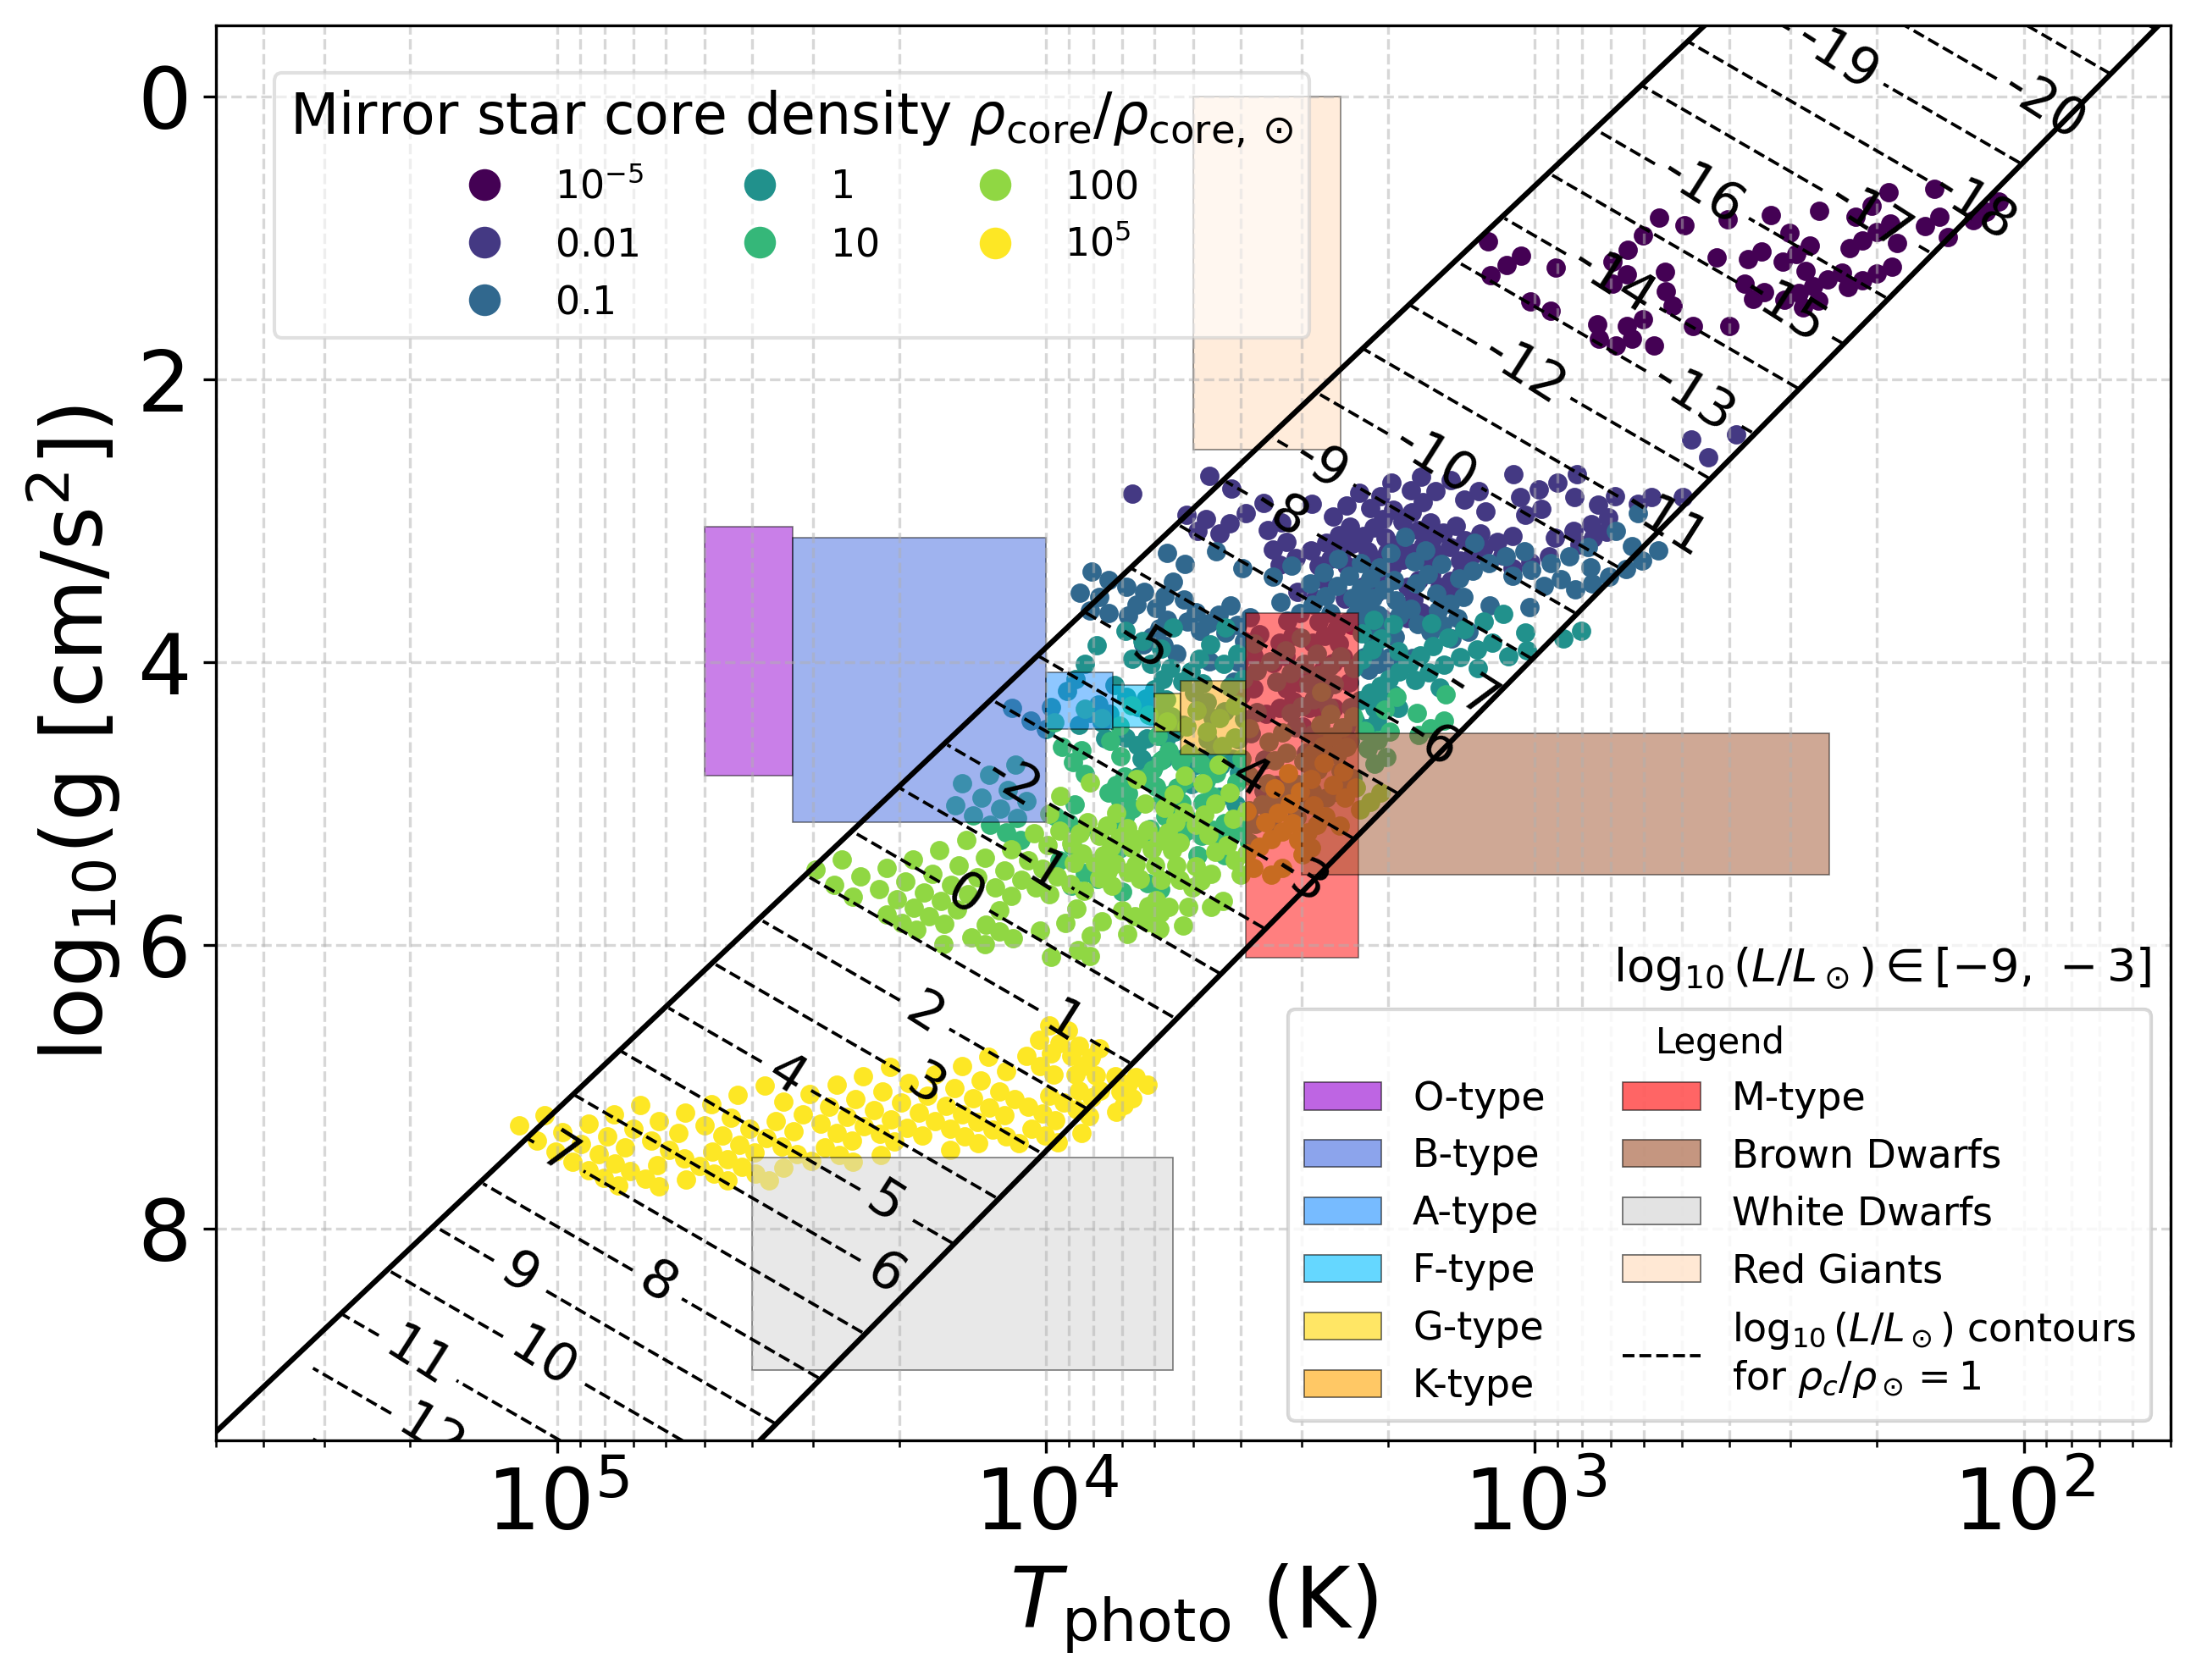
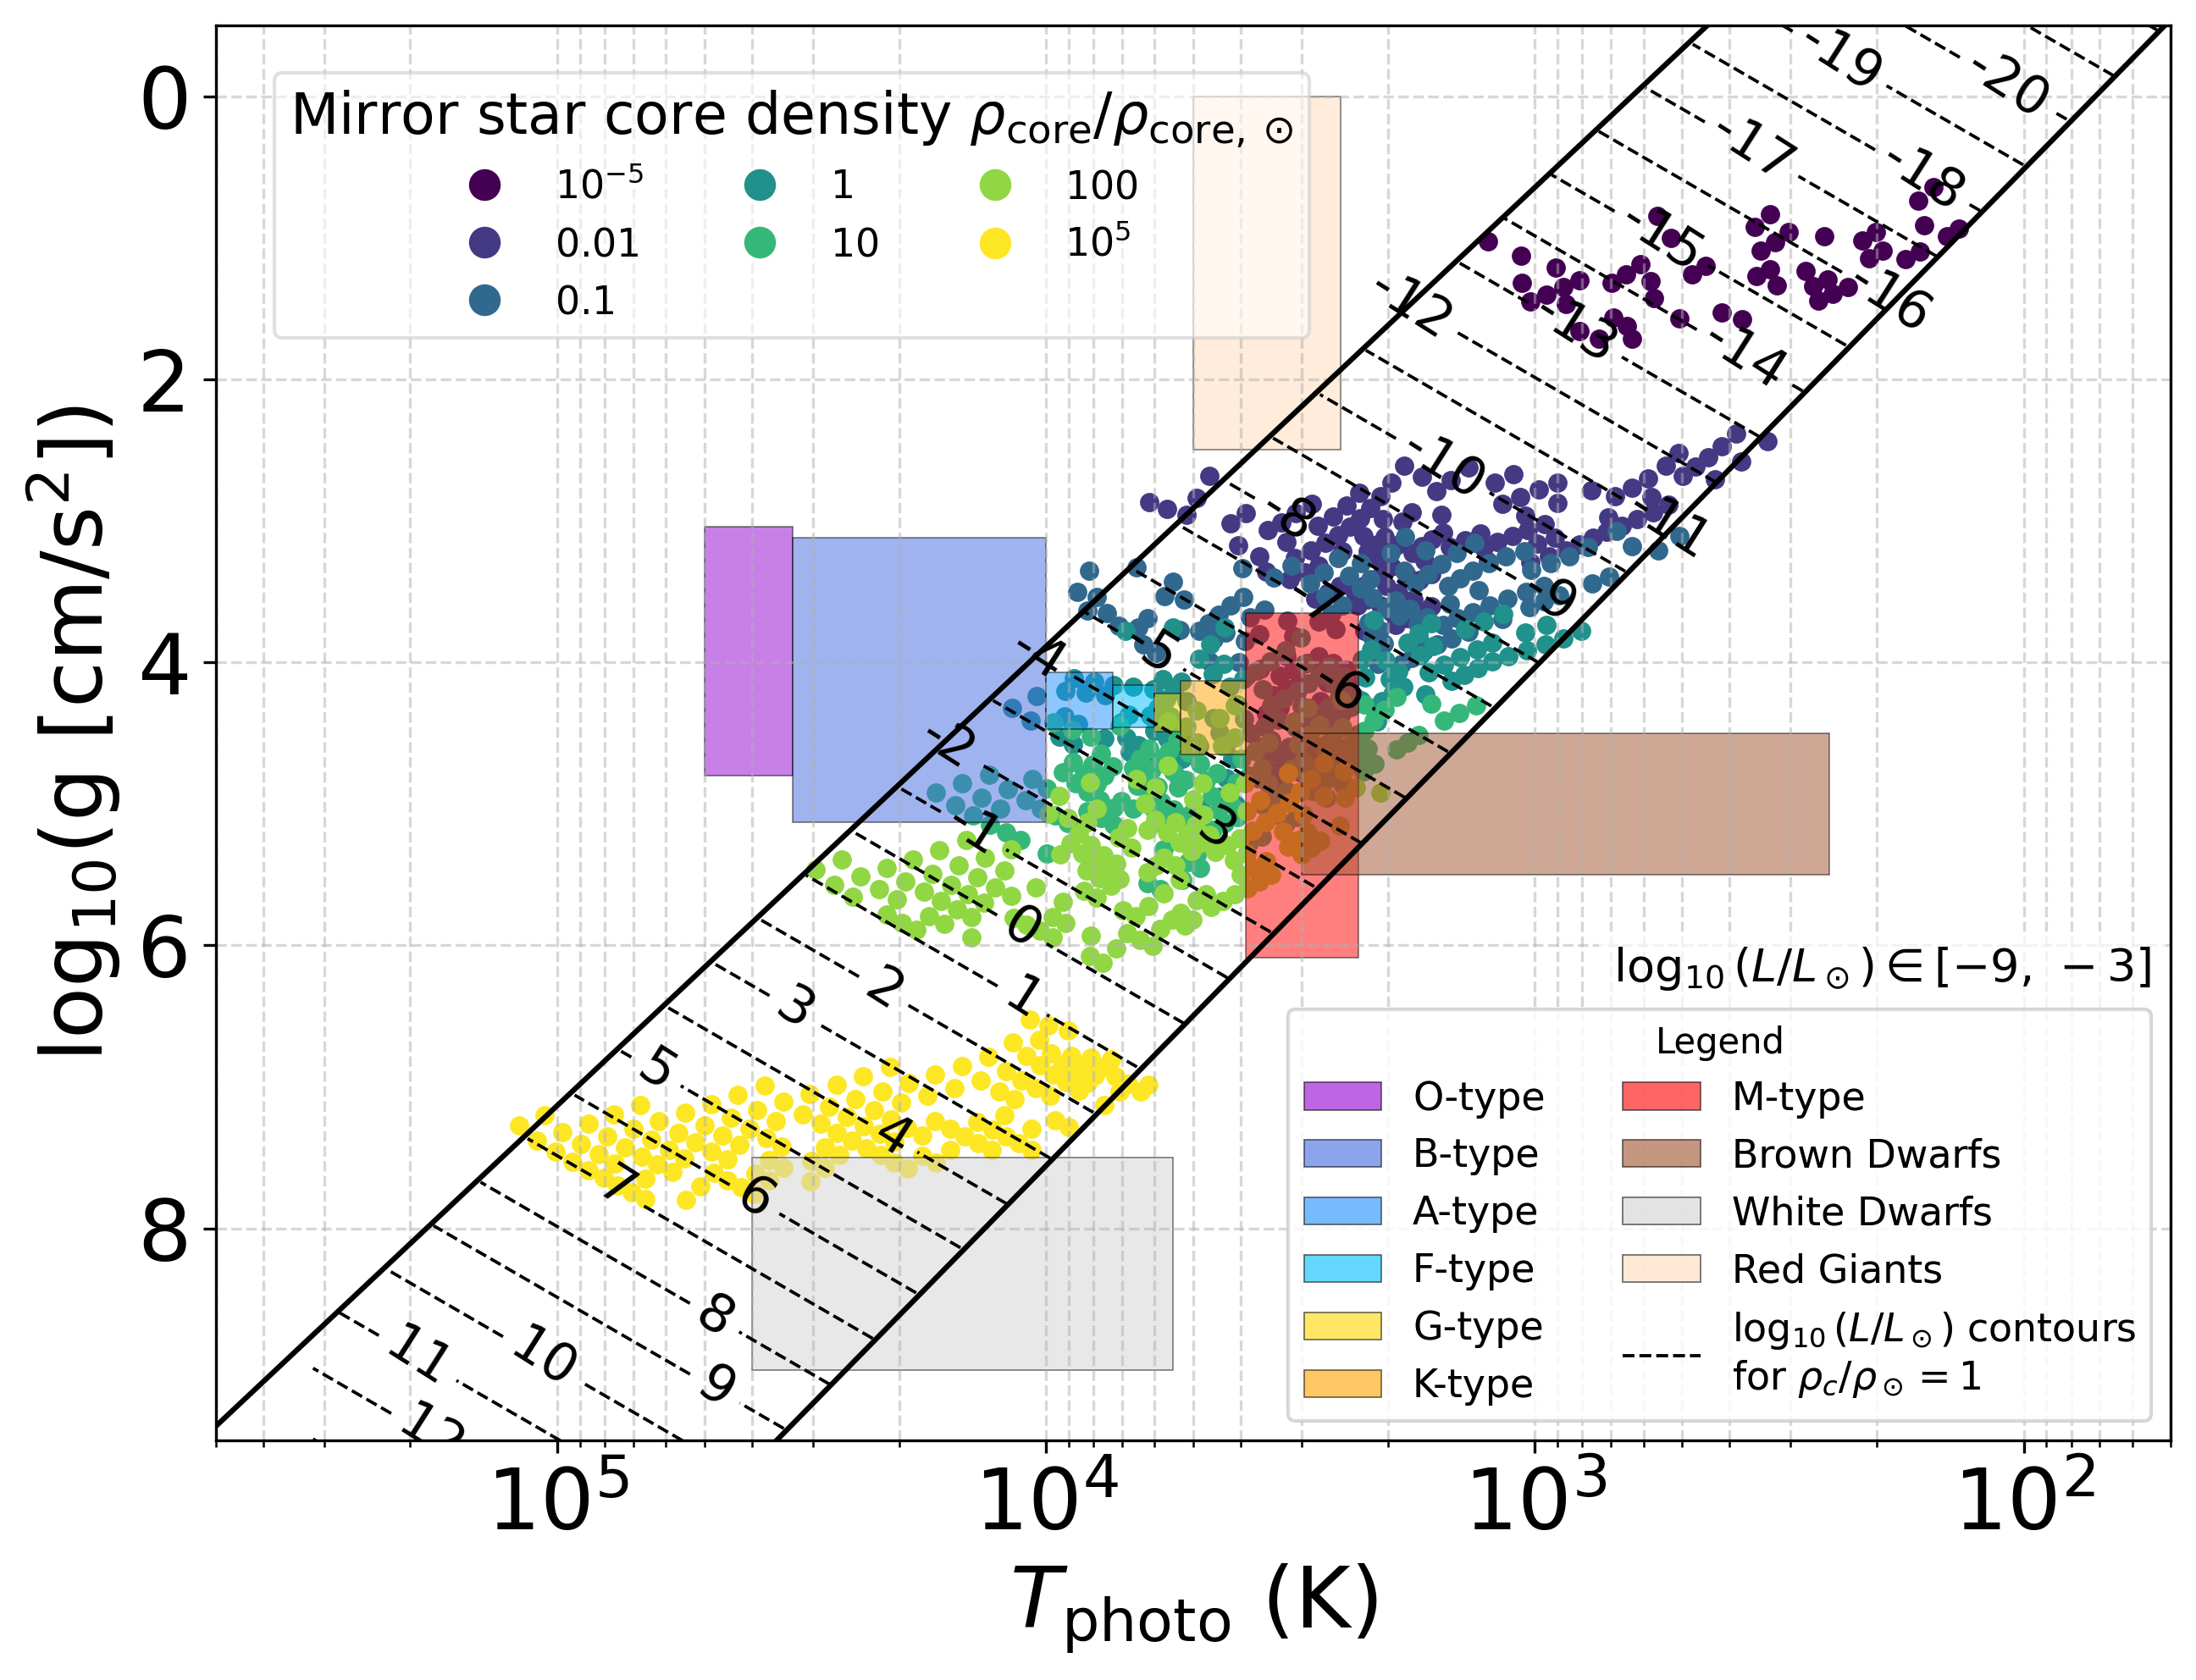
Update em signatures plots + readme + fix dependence on physics.py

diff --git a/optically_thick/em_signatures/make_plots.py b/optically_thick/em_signatures/make_plots.py
@@ -64,17 +64,25 @@ from mpl_toolkits.axes_grid1.inset_locator import inset_axes
 import importlib.util
 import sys
 from pathlib import Path as _Path
-_module_path = _Path(__file__).resolve().parents[1] / "module.py"
-spec = importlib.util.spec_from_file_location("module", str(_module_path))
-_module = importlib.util.module_from_spec(spec)
-spec.loader.exec_module(_module)
-sys.modules['module'] = _module
-load_nugget_file = _module.load_nugget_file
 
-_plot_path = _Path(__file__).resolve().parents[1] / "plotting.py"
-spec_plot = importlib.util.spec_from_file_location("repo_plotting", str(_plot_path))
-_plot_mod = importlib.util.module_from_spec(spec_plot)
-spec_plot.loader.exec_module(_plot_mod)
+
+def _load_repo_module(name: str, path: _Path):
+    spec = importlib.util.spec_from_file_location(name, str(path))
+    module = importlib.util.module_from_spec(spec)
+    sys.modules[name] = module
+    spec.loader.exec_module(module)
+    return module
+
+
+_repo_root = _Path(__file__).resolve().parents[1]
+
+# Pin shared imports to the parent optically_thick modules so the EM-signature
+# plots use the same physics backend as the main nugget-generation workflow.
+_physics = _load_repo_module("physics", _repo_root / "physics.py")
+_module = _load_repo_module("module", _repo_root / "module.py")
+_plot_mod = _load_repo_module("repo_plotting", _repo_root / "plotting.py")
+
+load_nugget_file = _module.load_nugget_file
 custom_cmap = _plot_mod.custom_cmap
 
 

diff --git a/optically_thick/em_signatures/README.md b/optically_thick/em_signatures/README.md
@@ -1,0 +1,67 @@
+# Electromagnetic Signatures of Optically Thick Mirror Nuggets
+This directory contains the code and cached data used to analyze the electromagnetic signatures of the optically thick nuggets generated in `mirror_star_emissions/optically_thick`. In particular, it contains the plotting workflow used to produce figures 3, 4, 5, and 6 of "Generalized Predictions for the Electromagnetic Signatures of Mirror Stars" by Franco Cabral, Stuart Williamson, David Curtin, Christopher D. Matzner (https://arxiv.org/abs/2604.00106).
+
+For further questions regarding the following, please Franco Cabral by email ([email redacted]).
+
+This subdirectory is designed to be used together with the main `optically_thick` workflow. The plotting script here reads nugget-derived summary data from `optically_thick/paramspace`, example nugget files from `optically_thick/profiles`, and cached stellar/spectroscopic data from `optically_thick/em_signatures/data`.
+
+## Description of files and directories
+The main plotting entrypoint is <code>make_plots.py</code>. This script generates the EM-signature plots in <code>optically_thick/em_signatures/plots</code>, including:
+- example interpolated spectra for the convective and radiative profile nuggets,
+- photospheric temperature-surface gravity comparison plots,
+- 2D Gaia Hertzsprung-Russell overlays, and
+- 3D Gaia Hertzsprung-Russell overlays.
+
+The <code>model_spectra_data.py</code> file contains utilities for reading MPS-Atlas atmosphere and spectra files, including model atmospheres, center-to-limb spectra, disk-integrated spectra, and the tabulated angular grid.
+
+The <code>stellar_parameters.py</code> file contains helper routines for matching user-supplied metallicity, effective temperature, and surface gravity values to the nearest entries on the MPS-Atlas grid stored in <code>data/grids</code>.
+
+The <code>data</code> directory contains local inputs used by the plotting scripts:
+- <code>grids</code>: tabulated metallicity, effective temperature, and surface gravity grids used for MPS-Atlas interpolation,
+- <code>gaia_cache</code>: cached Gaia-derived HR-diagram data used in the 2D and 3D comparison plots,
+- <code>Cloudy ISM Abundances.txt</code>: ISM abundances used by the helper physics routines.
+
+The <code>plots</code> directory is the default output location for <code>make_plots.py</code>. By default it contains the following subdirectories:
+- <code>spectra_examples</code>: interpolated disk-integrated spectra for the example convective and radiative nuggets,
+- <code>logg_T</code>: temperature-surface gravity comparison plots,
+- <code>HR</code>: 2D and 3D Hertzsprung-Russell comparison plots.
+
+## Use of python scripts
+
+To regenerate all EM-signature plots from the `optically_thick` directory, run:
+
+<code>python em_signatures/make_plots.py --data-root em_signatures/data --plots-root em_signatures/plots</code>
+
+The recommended working directory is <code>mirror_star_emissions/optically_thick</code>.
+
+Running this script requires the following python packages:
+- numpy
+- scipy
+- matplotlib
+- pandas
+
+The <code>make_plots.py</code> script expects the following repository inputs:
+- <code>optically_thick/paramspace/contour_dict.json</code>: nugget summary contours used in the temperature-gravity and HR plots,
+- <code>optically_thick/profiles/convective_nugget.nugget</code> and <code>optically_thick/profiles/radiative_nugget.nugget</code>: example nuggets used for the spectra plots,
+- <code>optically_thick/em_signatures/data/grids/*.txt</code> and <code>optically_thick/em_signatures/data/gaia_cache/*.csv</code>: cached interpolation and Gaia data.
+
+The spectra-example portion of the script also requires the external MPS-Atlas spectra grid. The full <code>set2</code> dataset is too large to store in this repository. It should be extracted so that the script can find a directory structure of the form:
+
+<code>&lt;spectra-root&gt;/set2/MH.../teff.../logg.../mpsa_flux_spectra.dat</code>
+
+If the spectra files are stored outside this repository, pass their parent directory with:
+
+<code>python em_signatures/make_plots.py --data-root em_signatures/data --plots-root em_signatures/plots --spectra-root "C:\path\to\parent\of\set2"</code>
+
+The script provides the following optional flags:
+- <code>--set-type {set1,set2}</code>: choose which MPS-Atlas set to use for the spectra interpolation,
+- <code>--spectra-root</code>: override the default spectra location of <code>&lt;data-root&gt;/spectra</code>,
+- <code>--skip-spectra-examples</code>: skip the example spectra plots,
+- <code>--skip-loggT</code>: skip the temperature-surface gravity plots,
+- <code>--skip-hr</code>: skip the 2D HR plots,
+- <code>--skip-hr-3d</code>: skip the 3D HR plots.
+
+Because the HR and logg-T figures are built from <code>contour_dict.json</code>, updating the nugget set for this workflow typically means regenerating or replacing that file first, then rerunning <code>make_plots.py</code>.
+
+
+Last updated: July 7th 2026

diff --git a/optically_thick/readme.md b/optically_thick/readme.md
@@ -3,7 +3,7 @@ This is the public repository for "Generalized Predictions for the Electromagnet
 
 For further questions regarding the following, please contact either of the first authors by email:\
 Stuart Williamson ([email redacted])\
-Franco Cabral (############)
+Franco Cabral ([email redacted])
 
 This repository contains all files required to reproduce our results including additional data for all nuggets analyzed in the paper. It also contains the plotting scripts used to create the figures in the paper.
 